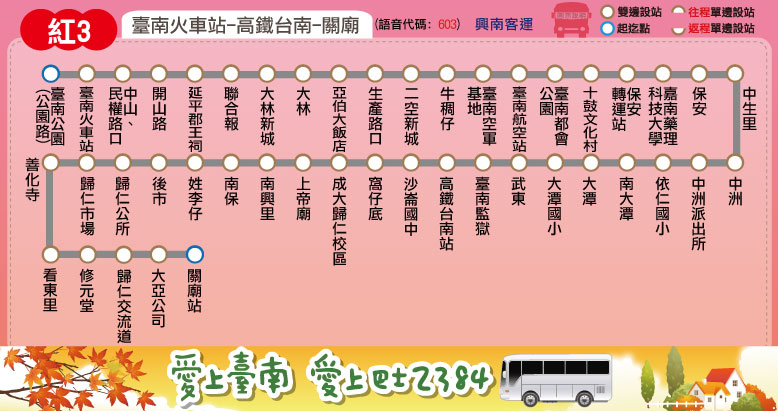
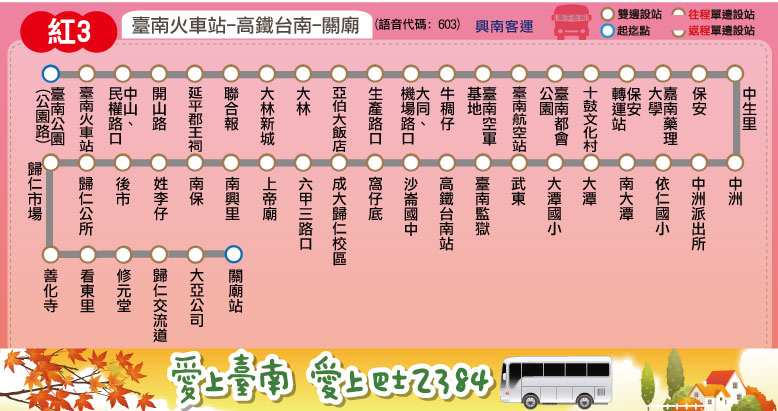
finished the time schedule of red 3

diff --git a/red/red_3.html b/red/red_3.html
@@ -1,0 +1,189 @@
+<!DOCTYPE html PUBLIC "-//W3C//DTD XHTML 1.0 Strict//EN" "http://www.w3.org/TR/xhtml1/DTD/xhtml1-strict.dtd">
+<html xmlns="http://www.w3.org/1999/xhtml">
+<head>
+<meta http-equiv="Content-Type" content="text/html; charset=utf-8" />
+<title>大台南公車 ─ 紅3 路線資訊</title>
+<meta name="keywords" content="" />
+<meta name="description" content="" />
+<style type="text/css">
+@import url("../css/table_style.css");
+@import url("../css/default.css");
+select.get_fare{background-color: #e22500;}
+select.get_fare option.option1
+{background-color: #CC0000; color: #FFFFFF;}
+select.get_fare option.option2
+{background-color: #FF3333;}
+select.get_fare option.option3
+{background-color: #AA0000; color: #FFFFFF;}
+select.get_fare option.option4
+{background-color: #FF9999;}
+</style>
+<script language="javascript" src="../route/msg.js"></script>
+<script language="javascript" src="../route/fare_and_time/red_3.js"></script>
+<script language="javascript" src="../route/fare_and_time/show_fare_tool.js"></script>
+</head>
+<body>
+<div id="header-wrapper">
+	<div id="header" class="container">
+		<div id="logo">
+			<h1><a href="../index.html">Tainan Bus for FUN</a></h1>
+			<p align="center">
+			<a href="index.html"><img src="../img/red_logo.png"></a>
+			</p>
+		</div>
+		<div id="menu">
+			<ul>
+				<li class="current_page_item"><a href="#route" accesskey="1" title="">路線圖</a></li>
+				<li><a href="#info" accesskey="2" title="">路線資訊</a></li>
+				<li><a href="#fare" accesskey="3" title="">票價表</a></li>
+				<li><a href="#time" accesskey="4" title="">時刻表</a></li>
+				<li><a href="#transfer" accesskey="5" title="">轉乘資訊</a></li>
+			</ul>
+		</div>
+	</div>
+</div>
+<div id="wrapper1">
+	<a name="route"></a>
+	<div id="banner">&nbsp;</div>
+	<div id="route">
+		<div class="title">
+			<h2>大台南公車 ─ 紅3 路線圖</h2>
+			<span class="byline">Tainan Bus Red 3, Route Map</span>
+		</div>
+		<img src="../route/red/r3.jpg">
+		<p></p>
+		<!--<iframe src="https://mapsengine.google.com/map/embed?mid=zT0XIOZRtlhg.kumm7mBa3IrA" width="800" height="500"></iframe>-->
+	</div>
+</div>
+<div id="wrapper2">
+	<a name="info"></a>
+	<div id="routeinfo" class="container">
+		<div class="title">
+			<h2>大台南公車 ─ 紅3　路線資訊</h2>
+			<span class="byline">Tainan Bus Red 3, Route Information</span> </div>
+		<div class="content">
+			<table border="0">
+				<tr>
+					<td>起訖點</td>
+					<td>臺南火車站 ─ 高鐵台南 ─ 關廟</td>
+				</tr>
+				<tr>
+					<td>營運公司</td>
+					<td>興南客運</td>
+				</tr>
+				<tr>
+					<td>首／末班車發車時刻</td>
+					<td>往 　關　廟　：06:05／19:05<br />往 臺南火車站：05:50／19:40</td>
+				</tr>
+				<tr>
+					<td>班距</td>
+					<td>固定班次</td>
+				</tr>
+				<tr>
+					<td>收費方式</td>
+					<td>里程計費</td>
+				</tr>
+			</table>
+			<p>　</p>
+			<a href="http://2384.tainan.gov.tw:8080/AGPSRemoteQuery3/ajaxBus.jsp?pathId=1603&locale=zh_TW" class="button">公車動態資訊</a> </div>
+	</div>
+</div>
+<div id="wrapper3">
+	<a name="fare"></a>
+	<div id="faretable" class="container">
+		<div class="title">
+			<h2>票價表</h2>
+			<span class="byline">Ticket Fare</span> </div>
+		<div class="content">
+			<script language="javascript">
+				create_select_menu(red_3_interval_stop, 4, 'red_3');
+			</script>
+			<br/>
+			<table id="showfareInfo">
+				<tr>
+					<th></th><th>全票</th><th>半票</th>
+				</tr>
+				<tr>
+					<td><b>投現</b></td>
+					<td id="cash_adult">-</td>
+					<td id="cash_half">-</td>
+				</tr>
+				<tr>
+					<td><b>電子票證</b></td>
+					<td id="RFID_adult">-</td>
+					<td id="RFID_half">-</td>
+				</tr>
+			</table>
+			<p>　</p>
+			<script language="javascript">
+				print_fare_table(red_3_interval_name, red_3_fare, '#FFCECD');
+				document.write('<p>　</p>');
+				document.write(MeteredMSG + PromotionMSG);
+			</script>
+			<p>　</p>
+		</div>
+	</div>
+</div>
+<div id="timetable">
+	<a name="time"></a>
+	<div class="title">
+		<h2>時刻表</h2>
+		<span class="byline">Bus schedule</span> </div>
+	<div class="content">
+		<script language="javascript">
+			document.write('<h2><font color="red">臺南公園(公園路)-&gt;關廟</font></h2>');
+			create_time_schedule(red_3_main_stop_name, red_3_main_stop_time_consume, red_3_important_stop, red_3_time_go, false);
+			document.write('<p>　</p>');
+			document.write('<h2><font color="red">關廟-&gt;臺南公園(公園路)</font></h2>');
+			create_time_schedule(red_3_main_stop_name, red_3_main_stop_time_consume, red_3_important_stop, red_3_time_return, true);
+			document.write(TimeScheduleMSG);
+		</script>
+	</div>
+</div>
+<div id="wrapper4">
+	<a name="transfer"></a>
+	<div id="transfer" class="container">
+		<div class="title">
+			<h2>大台南公車－紅3 主要轉乘點資訊</h2>
+			<span class="byline">Tainan bus Red 3, Transfer information</span>
+		</div>
+		<div class="content">
+			<table>
+				<tr>
+					<th rowspan="7">台南火車站</th>
+					<td style="text-align: center"><img src="../route/transfer/railway.png"></td>
+					<td>台鐵台南站</td>
+				</tr>
+				<tr>
+					<td style="text-align: center"><img src="../route/transfer/taiwantrip_logo.png"></td>
+					<td>88、99</td>
+				</tr>
+				<tr>
+					<td style="text-align: center"><img src="../route/transfer/city_bus_transfer_logo.png"></td>
+					<td>市區公車(除15、20路)</td>
+				</tr>
+				<tr>
+					<td style="text-align: center"><img src="../route/transfer/green_transfer_logo.png"></td>
+					<td>綠幹線</td>
+				</tr>
+				<tr>
+					<td style="text-align: center"><img src="../route/transfer/blue_transfer_logo.png"></td>
+					<td>藍幹線</td>
+				</tr>
+				<tr>
+					<td style="text-align: center"><img src="../route/transfer/red_transfer_logo.png"></td>
+					<td>紅幹線、紅1、紅2、紅3、紅4</td>
+				</tr>
+				<tr>
+					<td style="text-align: center"><img src="../route/transfer/orange_transfer_logo.png"></td>
+					<td>橘3、橘12</td>
+				</tr>
+			</table>
+		</div>
+	</div>
+</div>
+<div id="copyright">
+	<script type="text/javascript">document.write(copyrightMSG);</script>
+</div>
+</body>
+</html>

diff --git a/route/fare_and_time/red_3.js b/route/fare_and_time/red_3.js
@@ -1,0 +1,40 @@
+red_3_interval_name = ["臺南","臺南<br />航空站","臺南<br />都會公園","保安<br />轉運站","嘉南科大","保安","中洲","大潭","武東","高鐵<br />臺南站","六甲","歸仁","關廟"];
+red_3_interval_stop = [
+["臺南公園(公園路)","臺南火車站","中山、民權路口","開山路","延平郡王祠","聯合報","大林新城","大林","亞伯大飯店","生產路口","大同、機場路口"], // 臺南
+["牛稠仔","臺南空軍基地","臺南航空站"], // 臺南航空站
+["臺南都會公園"], // 臺南都會公園
+["十鼓文化村","保安轉運站"], // 保安轉運站
+["嘉南藥理大學"], // 嘉南藥理科技大學
+["保安"], // 保安
+["中生里","中洲","中洲派出所"], // 中洲
+["依仁國小","南大潭","大潭","大潭國小"], // 大潭
+["武東"], // 武東
+["臺南監獄","高鐵臺南站","沙崙國中","窩仔底"], // 高鐵臺南站
+["成大歸仁校區","六甲三路口"], // 六甲
+["上帝廟","南興里","南保","姓李仔","後市","歸仁公所","歸仁市場","善化寺","看東里","修元堂","歸仁交流道"], // 歸仁
+["大亞公司","關廟"], // 關廟
+];
+red_3_interval_time_consume = [5, 18, 20, 25, 30, 35, 45, 50, 55, 60, 65, 70, 75];
+red_3_fare = [
+[26],
+[26,26],
+[30,26,26],
+[34,26,26,26],
+[39,26,26,26,26],
+[43,26,26,26,26,26],
+[51,27,26,26,26,26,26],
+[58,34,28,26,26,26,26,26],
+[60,36,30,26,26,26,26,26,26],
+[68,43,38,34,29,26,26,26,26,26],
+[76,52,46,42,37,32,26,26,26,26,26],
+[93,69,63,59,54,50,42,35,33,26,26,26],
+[104,80,74,70,65,60,53,46,44,36,28,26,26]
+];
+// format = [time at the start stop] or
+// [time, other] or
+// [time, start_stop, end_stop, other]
+red_3_main_stop_name = ["臺南公園<br />(公園路)","臺南<br />火車站","臺南航空站","嘉南藥理<br />科技大學","高鐵臺南站","歸仁公所","關廟"];
+red_3_main_stop_time_consume = [0, 5, 20, 31, 46, 70, 75];
+red_3_important_stop = [0, 1, 2, 4, 6]; // 臺南公園, 臺南火車站, 臺南航空站, 高鐵臺南站, 關廟
+red_3_time_go = [["6:05"],["7:05"],["8:05"],["10:05"],["12:05"],["14:05"],["16:05"],["17:05"],["18:05"],["19:05"]];
+red_3_time_return = [["5:50"],["7:20"],["8:40"],["10:40"],["12:40"],["14:40"],["16:40"],["17:40"],["18:40"],["19:40"]];

diff --git a/route/fare_and_time/red_2.js b/route/fare_and_time/red_2.js
@@ -1,7 +1,7 @@
 red_2_interval_name = ["臺南","仁德","後壁厝","上崙子","六甲","歸仁","關廟"];
 red_2_interval_stop = [
-["臺南站","新光三越新天地","小西門(大億麗緻)","西門友愛街口","中正西門路口","林百貨(中正路)","中山民權路口","臺南公園(公園路)",
-"臺南火車站","東門圓環","東門教會","東門城","龍山寺","富強市場","東門路","虎尾寮","富農街口"], // 臺南
+["臺南站","新光三越新天地","小西門(大億麗緻)","西門、友愛街口","中正、西門路口","林百貨(中正路)","中山、民權路口",
+"臺南公園(公園路)","臺南火車站","東門圓環","東門教會","東門城","龍山寺","富強市場","東門路","虎尾寮","富農街口"], // 臺南
 ["嘉南療養院","仁德交流道","仁德","土庫仔","中正路(仁德)"], // 仁德
 ["崙仔尾","北保仔","後壁厝","三塊厝","鉅全公司","蔦松腳","田厝"], // 後壁厝
 ["上崙子"], // 上崙子
